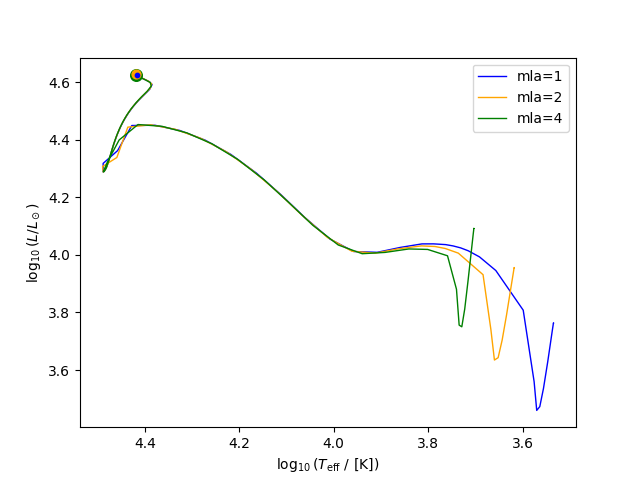
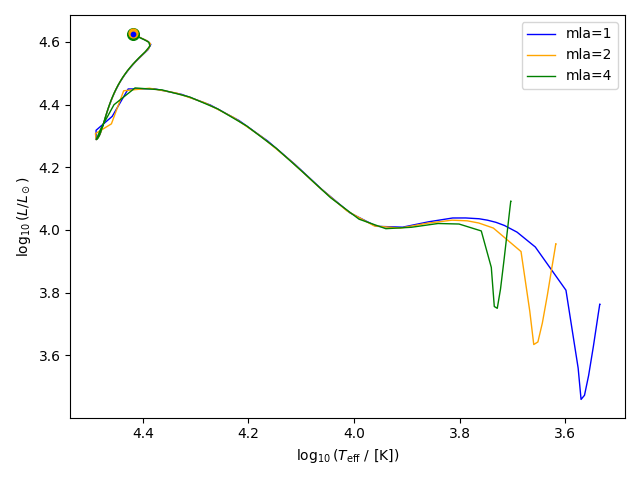
update plotting script

diff --git a/plot.py b/plot.py
@@ -1,0 +1,79 @@
+import mesa_reader as mr
+import matplotlib.pyplot as plt
+
+
+# specify variables corresponding to chosen mla values
+mla_vals = [1, 2, 4]
+dirs = [f"mla_{mla_val}_star/LOGS" for mla_val in mla_vals]
+colors = ["blue", "orange", "green"]
+markers = ["o", "s", "D"]  # for line endpoints
+
+# initialize plot
+plt.figure()
+
+# create HR diagram
+for i in range(len(mla_vals)):
+    # read in history 
+    logs = mr.MesaLogDir(dirs[i])
+    history = logs.history
+
+    # plot HR path
+    plt.plot(history.log_Teff, history.log_L, color=colors[i], label=f"mla={mla_vals[i]}", alpha=1, lw=1)
+    
+    # plot end point
+    plt.scatter(history.log_Teff[-1], history.log_L[-1], color=colors[i], s=(1+i)*30 - 20, zorder=10-i)
+
+    # also print age of star at MS turnoff
+    print(f"mla = {mla_vals[i]}, MS turnoff age = {history.star_age[-1]} yr")
+
+# make plot spiffy and save
+plt.xlabel(r"$\log_{10}(T_{\mathrm{eff}}\ /\ \mathrm{[K]})$")
+plt.ylabel(r"$\log_{10}(L / L_\odot)$")
+plt.gca().invert_xaxis()
+plt.legend()
+plt.tight_layout()
+plt.savefig(f"plots/HR.png")
+
+# initialize plot
+plt.figure()
+
+# plot log P vs log rho
+for i in range(len(mla_vals)):
+    # read in history 
+    logs = mr.MesaLogDir(dirs[i])
+    history = logs.history
+
+    # plot variables
+    plt.plot(history.log_cntr_Rho, history.log_cntr_P, color=colors[i], label=f"mla={mla_vals[i]}", alpha=1, lw=1)
+    
+    # plot end point
+    plt.scatter(history.log_cntr_Rho[-1], history.log_cntr_P[-1], color=colors[i], s=(1+i)*30 - 20, zorder=10-i)
+
+# make plot spiffy and save
+plt.xlabel(r"$\log_{10}(\rho_c\ / \ \mathrm{[g\ cm^{-3}]})$")
+plt.ylabel(r"$\log_{10}(P_c\ / \ \mathrm{[dyne\ cm^{-2}]})$")
+plt.legend()
+plt.tight_layout()
+plt.savefig(f"plots/p_vs_rho.png")
+
+# initialize plot
+plt.figure()
+
+# plot log T vs log rho
+for i in range(len(mla_vals)):
+    # read in history 
+    logs = mr.MesaLogDir(dirs[i])
+    history = logs.history
+
+    # plot variables
+    plt.plot(history.log_cntr_Rho, history.log_cntr_T, color=colors[i], label=f"mla={mla_vals[i]}", alpha=1, lw=1)
+    
+    # plot end point
+    plt.scatter(history.log_cntr_Rho[-1], history.log_cntr_T[-1], color=colors[i], s=(1+i)*30 - 20, zorder=10-i)
+
+# make plot spiffy and save
+plt.xlabel(r"$\log_{10}(\rho_c\ / \ \mathrm{[g\ cm^{-3}]})$")
+plt.ylabel(r"$\log_{10}(T_c\ / \ \mathrm{[K]})$")
+plt.legend()
+plt.tight_layout()
+plt.savefig(f"plots/T_vs_rho.png")
